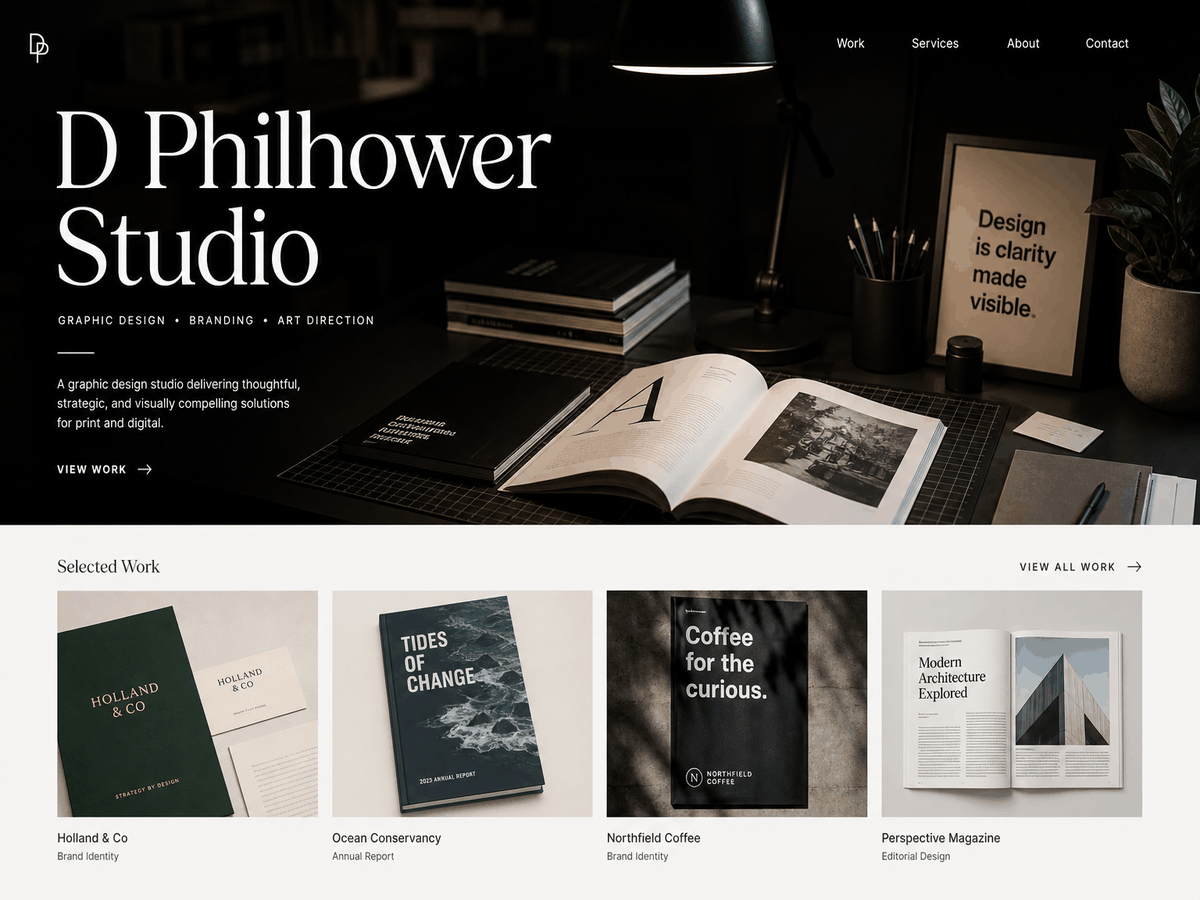
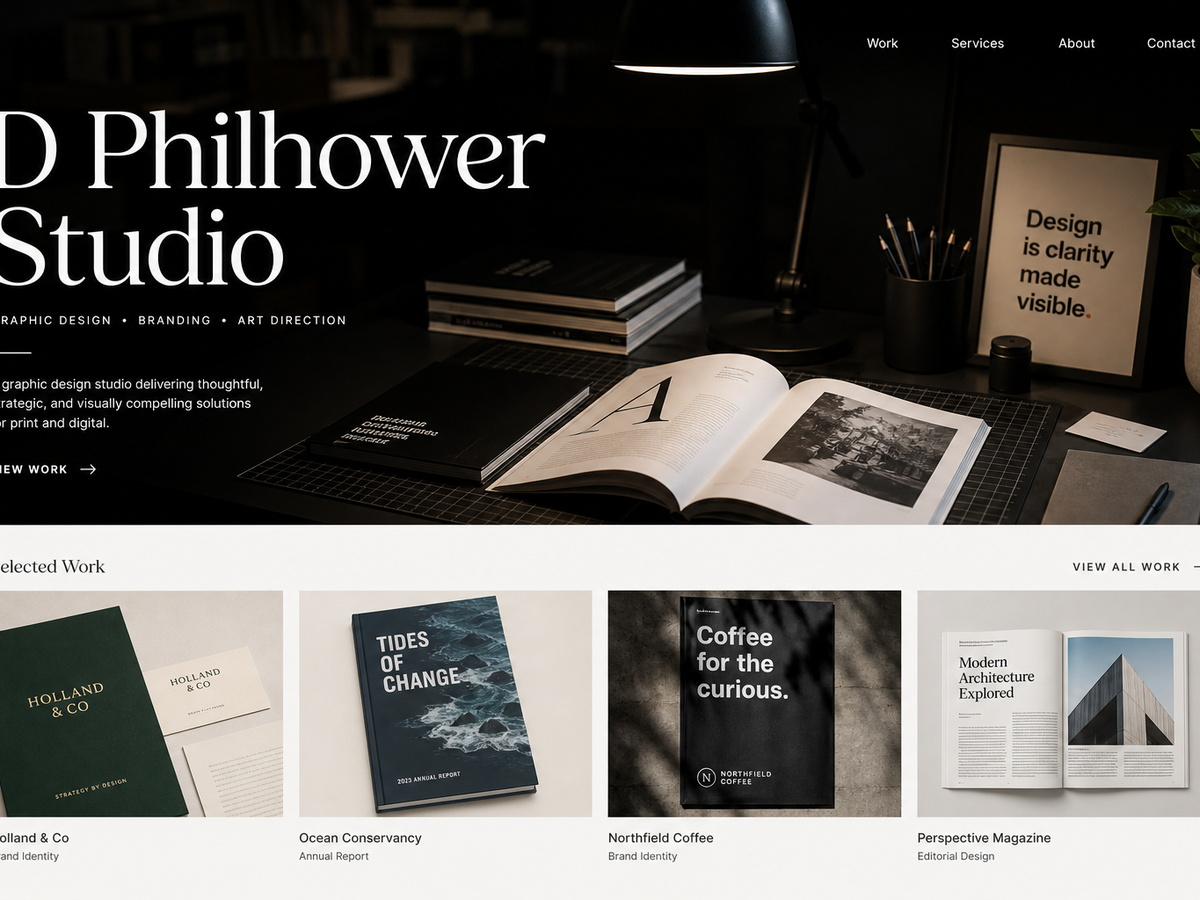
Serve native high-resolution PNG images across the studio site
Replace the compressed JPEGs with lossless source PNGs, stop WordPress from downscaling hero and work images, and drop the hero zoom so the photographs stay sharp.

diff --git a/dphilhower-studio-wp/preview/work/ember-pie-co/index.html b/dphilhower-studio-wp/preview/work/ember-pie-co/index.html
@@ -31,7 +31,7 @@
       <p>A sample Morris County pizzeria system: the mark, the window, the menu, the bag, and the phone homepage designed as one set — not five separate jobs.</p>
     </header>
     <div class="case-hero">
-      <img src="../../img/ember-kit.jpg" alt="Ember Pie Co. identity board with logo, type, and color" width="1600" height="1067">
+      <img src="../../img/ember-kit.png" alt="Ember Pie Co. identity board with logo, type, and color" width="1536" height="1024">
     </div>
     <article class="case-body">
       <ul class="case-meta">
@@ -76,19 +76,19 @@
       <h2 class="section-title">Window and menu</h2>
       <div class="compare">
         <figure>
-          <img src="../../img/ember-window-before.jpg" alt="Cluttered pizza shop window before the brand system" width="1600" height="1067">
+          <img src="../../img/ember-window-before.png" alt="Cluttered pizza shop window before the brand system" width="1536" height="1024">
           <figcaption><strong>Before — window</strong> Tape, stock photos, and a sign that could belong to any shop on the block.</figcaption>
         </figure>
         <figure>
-          <img src="../../img/ember-window-after.jpg" alt="Ember Pie Co. painted storefront window at dusk" width="1600" height="1067">
+          <img src="../../img/ember-window-after.png" alt="Ember Pie Co. painted storefront window at dusk" width="1536" height="1024">
           <figcaption><strong>After — window</strong> One mark, warm light, a menu you can read from the sidewalk.</figcaption>
         </figure>
         <figure>
-          <img src="../../img/ember-menu-before.jpg" alt="Crowded photocopy pizza menu before the redesign" width="1400" height="933">
+          <img src="../../img/ember-menu-before.png" alt="Crowded photocopy pizza menu before the redesign" width="1536" height="1024">
           <figcaption><strong>Before — menu</strong> Clip art and a price list fighting for the same square inch.</figcaption>
         </figure>
         <figure>
-          <img src="../../img/ember-menu-after.jpg" alt="Cream Ember Pie Co. menu on a wood table" width="1400" height="933">
+          <img src="../../img/ember-menu-after.png" alt="Cream Ember Pie Co. menu on a wood table" width="1536" height="1024">
           <figcaption><strong>After — menu</strong> Hierarchy first. The food can be loud because the type is quiet.</figcaption>
         </figure>
       </div>
@@ -99,13 +99,13 @@
       <h2 class="section-title">Bag and homepage</h2>
       <div class="touch-grid">
         <figure class="touch-card">
-          <img src="../../img/ember-bag.jpg" alt="Kraft takeout bag and pizza box with Ember Pie Co. stamp" width="1400" height="933">
+          <img src="../../img/ember-bag.png" alt="Kraft takeout bag and pizza box with Ember Pie Co. stamp" width="1536" height="1024">
         </figure>
         <figure class="touch-card touch-phone">
-          <img src="../../img/ember-phone.jpg" alt="Phone showing the Ember Pie Co. homepage" width="900" height="1350">
+          <img src="../../img/ember-phone.png" alt="Phone showing the Ember Pie Co. homepage" width="1024" height="1536">
         </figure>
         <figure class="touch-card">
-          <img src="../../img/ember-window-after.jpg" alt="Storefront at night" width="1600" height="1067">
+          <img src="../../img/ember-window-after.png" alt="Storefront at night" width="1536" height="1024">
         </figure>
       </div>
       <p class="section-copy" style="margin:1.25rem 0 0">The bag uses the same stamp as the box. The homepage uses the same cream and ember as the menu. Nothing is a one-off layout.</p>

diff --git a/dphilhower-studio-wp/preview/work/index.html b/dphilhower-studio-wp/preview/work/index.html
@@ -33,27 +33,27 @@
     <section class="section" style="padding-top:0">
       <div class="work-grid">
         <a class="work-item" href="../work/ember-pie-co/index.html">
-          <img src="../img/ember-kit.jpg" alt="Ember Pie Co. identity board" width="1200" height="1500">
+          <img src="../img/ember-kit.png" alt="Ember Pie Co. identity board" width="1536" height="1024">
           <div class="work-meta"><h3>Ember Pie Co.</h3><p>Live brand kit — window · menu · bag · phone</p></div>
         </a>
         <a class="work-item" href="../work/restaurant-brand-systems/index.html">
-          <img src="../img/work-brand.jpg" alt="Brand identity explorations" width="1200" height="1500">
+          <img src="../img/work-brand.png" alt="Brand identity explorations" width="1024" height="1536">
           <div class="work-meta"><h3>Restaurant brand systems</h3><p>Identity · menus · signage direction</p></div>
         </a>
         <a class="work-item" href="../work/custom-website-design/index.html">
-          <img src="../img/work-web.jpg" alt="Website UI design" width="1200" height="800">
+          <img src="../img/work-web.png" alt="Website UI design" width="1536" height="1024">
           <div class="work-meta"><h3>Custom website design</h3><p>Structure · visuals · responsive build</p></div>
         </a>
         <a class="work-item" href="../work/print-and-packaging/index.html">
-          <img src="../img/work-print.jpg" alt="Printed collateral" width="1200" height="800">
+          <img src="../img/work-print.png" alt="Printed collateral" width="1536" height="1024">
           <div class="work-meta"><h3>Print &amp; packaging</h3><p>Collateral · packaging · campaigns</p></div>
         </a>
         <a class="work-item" href="../work/hospitality-storytelling/index.html">
-          <img src="../img/work-menu.jpg" alt="Hospitality dining atmosphere" width="1200" height="800">
+          <img src="../img/work-menu.png" alt="Hospitality dining atmosphere" width="1536" height="1024">
           <div class="work-meta"><h3>Hospitality storytelling</h3><p>Menus · photography direction · guest touchpoints</p></div>
         </a>
         <a class="work-item" href="../work/packaging-systems/index.html">
-          <img src="../img/work-pack.jpg" alt="Packaging design" width="1200" height="800">
+          <img src="../img/work-pack.png" alt="Packaging design" width="1536" height="1024">
           <div class="work-meta"><h3>Packaging systems</h3><p>Structure · label · unboxing</p></div>
         </a>
       </div>

diff --git a/dphilhower-studio-wp/preview/index.html b/dphilhower-studio-wp/preview/index.html
@@ -28,7 +28,7 @@
   <main id="main">
     <section class="hero">
       <div class="hero-media" aria-hidden="true">
-        <img src="img/hero-editorial.jpg" alt="" width="1800" height="1200">
+        <img src="img/hero-editorial.png" alt="" width="1536" height="1024">
       </div>
       <div class="hero-content">
         <p class="hero-brand">D Philhower Studio</p>
@@ -46,21 +46,21 @@
       <p class="section-copy">From restaurant identities to marketing websites, each project starts with how the business should feel—then the mark, materials, and site follow.</p>
       <div class="work-grid is-home">
         <a class="work-item" href="work/ember-pie-co/index.html">
-          <img src="img/ember-kit.jpg" alt="Ember Pie Co. live brand kit" width="1200" height="1500">
+          <img src="img/ember-kit.png" alt="Ember Pie Co. live brand kit" width="1536" height="1024">
           <div class="work-meta">
             <h3>Ember Pie Co.</h3>
             <p>Live brand kit — window, menu, bag, phone</p>
           </div>
         </a>
         <a class="work-item" href="work/custom-website-design/index.html">
-          <img src="img/work-web.jpg" alt="Website design on a laptop" width="1200" height="800">
+          <img src="img/work-web.png" alt="Website design on a laptop" width="1536" height="1024">
           <div class="work-meta">
             <h3>Custom website design</h3>
             <p>Marketing sites for Morris County businesses</p>
           </div>
         </a>
         <a class="work-item" href="work/print-and-packaging/index.html">
-          <img src="img/work-print.jpg" alt="Print design materials" width="1200" height="800">
+          <img src="img/work-print.png" alt="Print design materials" width="1536" height="1024">
           <div class="work-meta">
             <h3>Print &amp; packaging</h3>
             <p>Collateral that matches the digital brand</p>
@@ -98,7 +98,7 @@
         </ul>
       </div>
       <div class="locale-media">
-        <img src="img/street.jpg" alt="Tree-lined downtown street atmosphere" width="1600" height="1067">
+        <img src="img/street.png" alt="Tree-lined downtown street atmosphere" width="1536" height="1024">
       </div>
     </section>
     <section class="cta-band">

diff --git a/dphilhower-studio-wp/preview/work/custom-website-design/index.html b/dphilhower-studio-wp/preview/work/custom-website-design/index.html
@@ -28,7 +28,7 @@
       <h1>Custom website design</h1>
       <p>Marketing sites for Morris County businesses</p>
     </header>
-    <div class="case-hero"><img src="../../img/work-web.jpg" alt="Website design on a laptop" width="1600" height="1067"></div>
+    <div class="case-hero"><img src="../../img/work-web.png" alt="Website design on a laptop" width="1536" height="1024"></div>
     <article class="case-body">
       <ul class="case-meta">
         <li><strong>Client</strong><br>Local service and retail brands</li>

diff --git a/dphilhower-studio-wp/preview/work/hospitality-storytelling/index.html b/dphilhower-studio-wp/preview/work/hospitality-storytelling/index.html
@@ -28,7 +28,7 @@
       <h1>Hospitality storytelling</h1>
       <p>Menus, photography direction, guest touchpoints</p>
     </header>
-    <div class="case-hero"><img src="../../img/work-menu.jpg" alt="Dining atmosphere" width="1600" height="1067"></div>
+    <div class="case-hero"><img src="../../img/work-menu.png" alt="Dining atmosphere" width="1536" height="1024"></div>
     <article class="case-body">
       <ul class="case-meta">
         <li><strong>Client</strong><br>Independent restaurants</li>

diff --git a/dphilhower-studio-wp/preview/work/print-and-packaging/index.html b/dphilhower-studio-wp/preview/work/print-and-packaging/index.html
@@ -28,7 +28,7 @@
       <h1>Print &amp; packaging</h1>
       <p>Collateral that matches the digital brand</p>
     </header>
-    <div class="case-hero"><img src="../../img/work-print.jpg" alt="Printed collateral" width="1600" height="1067"></div>
+    <div class="case-hero"><img src="../../img/work-print.png" alt="Printed collateral" width="1536" height="1024"></div>
     <article class="case-body">
       <ul class="case-meta">
         <li><strong>Client</strong><br>Retail and food brands</li>

diff --git a/dphilhower-studio-wp/preview/work/packaging-systems/index.html b/dphilhower-studio-wp/preview/work/packaging-systems/index.html
@@ -28,7 +28,7 @@
       <h1>Packaging systems</h1>
       <p>Product and package design for small makers</p>
     </header>
-    <div class="case-hero"><img src="../../img/work-pack.jpg" alt="Packaging design" width="1600" height="1067"></div>
+    <div class="case-hero"><img src="../../img/work-pack.png" alt="Packaging design" width="1536" height="1024"></div>
     <article class="case-body">
       <ul class="case-meta">
         <li><strong>Client</strong><br>Makers and specialty food</li>

diff --git a/dphilhower-studio-wp/preview/css/editorial.css b/dphilhower-studio-wp/preview/css/editorial.css
@@ -39,6 +39,11 @@ body {
   color: #f6f1e6;
 }
 
+.hero-media img {
+  transform: none;
+  animation: none;
+}
+
 .hero-media::after {
   background:
     linear-gradient(180deg, rgba(12, 10, 8, 0.42) 0%, rgba(12, 10, 8, 0.18) 38%, rgba(12, 10, 8, 0.84) 100%),
@@ -113,7 +118,12 @@ body {
 }
 
 .work-item img {
-  opacity: 0.82;
+  opacity: 1;
+}
+
+.work-item:hover img {
+  transform: none;
+  opacity: 1;
 }
 
 .work-meta {

diff --git a/dphilhower-studio-wp/theme/dphilhower-studio/assets/css/editorial.css b/dphilhower-studio-wp/theme/dphilhower-studio/assets/css/editorial.css
@@ -39,6 +39,11 @@ body {
   color: #f6f1e6;
 }
 
+.hero-media img {
+  transform: none;
+  animation: none;
+}
+
 .hero-media::after {
   background:
     linear-gradient(180deg, rgba(12, 10, 8, 0.42) 0%, rgba(12, 10, 8, 0.18) 38%, rgba(12, 10, 8, 0.84) 100%),
@@ -113,7 +118,12 @@ body {
 }
 
 .work-item img {
-  opacity: 0.82;
+  opacity: 1;
+}
+
+.work-item:hover img {
+  transform: none;
+  opacity: 1;
 }
 
 .work-meta {

diff --git a/dphilhower-studio-wp/preview/about/index.html b/dphilhower-studio-wp/preview/about/index.html
@@ -38,7 +38,7 @@
         <p><a class="btn btn-dark" href="../contact/index.html">Get in touch</a></p>
       </div>
       <div class="about-media">
-        <img src="../img/about-desk.jpg" alt="Collaborative design work session" width="1400" height="933">
+        <img src="../img/about-desk.png" alt="Collaborative design work session" width="1536" height="1024">
       </div>
     </section>
   </main>

diff --git a/dphilhower-studio-wp/preview/work/restaurant-brand-systems/index.html b/dphilhower-studio-wp/preview/work/restaurant-brand-systems/index.html
@@ -31,7 +31,7 @@
       <p>Identity, menus, and storefront presence</p>
     </header>
     <div class="case-hero">
-      <img src="../../img/work-brand.jpg" alt="Restaurant brand identity board" width="1600" height="1067">
+      <img src="../../img/work-brand.png" alt="Restaurant brand identity board" width="1024" height="1536">
     </div>
     <article class="case-body">
       <ul class="case-meta">

diff --git a/dphilhower-studio-wp/theme/dphilhower-studio/style.css b/dphilhower-studio-wp/theme/dphilhower-studio/style.css
@@ -4,7 +4,7 @@ Theme URI: https://dphilhower.com
 Author: D Philhower Studio
 Author URI: https://dphilhower.com
 Description: Custom graphic design studio theme for D Philhower Studio at dphilhower.com — portfolio, services, about, and project inquiries. Activate the theme to load demo pages and work samples.
-Version: 1.0.0
+Version: 1.0.1
 Requires at least: 6.4
 Tested up to: 6.8
 Requires PHP: 7.4
